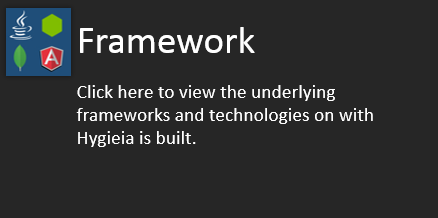
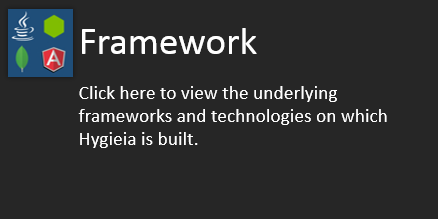
Modified Framework Image (#1665)

diff --git a/pages/hygieia/framework.md b/pages/hygieia/framework.md
@@ -1,5 +1,5 @@
 ---
-title: Underlying Framework and Technologies
+title: Underlying Frameworks and Technologies
 tags:
 keywords:
 summary:
